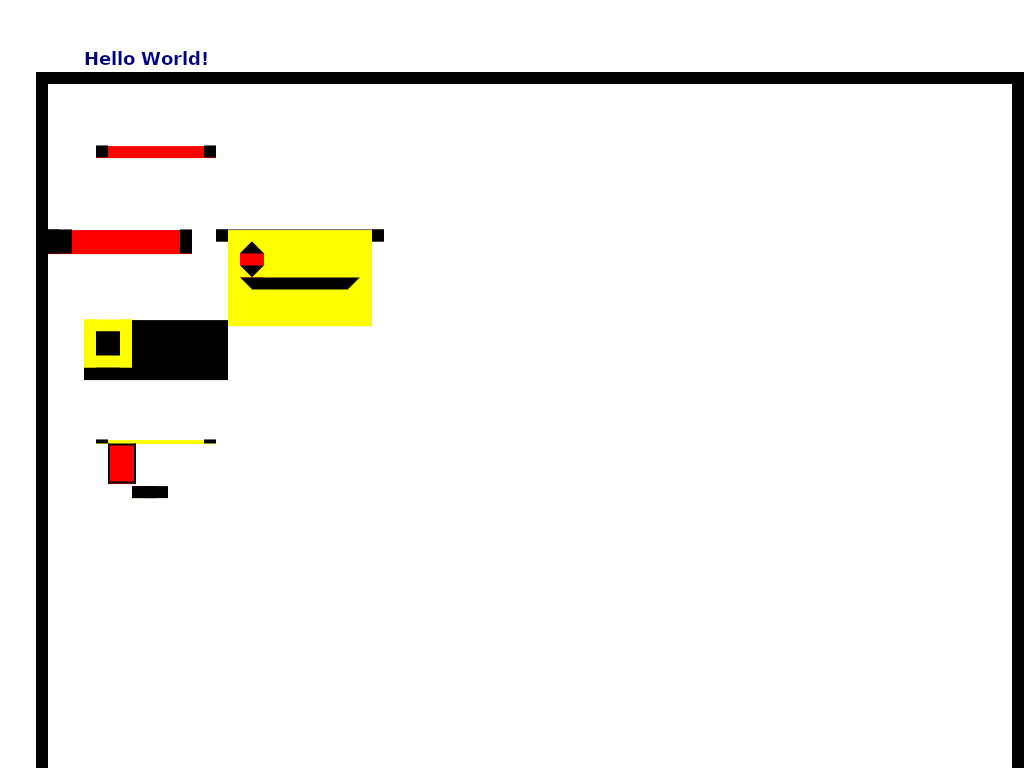
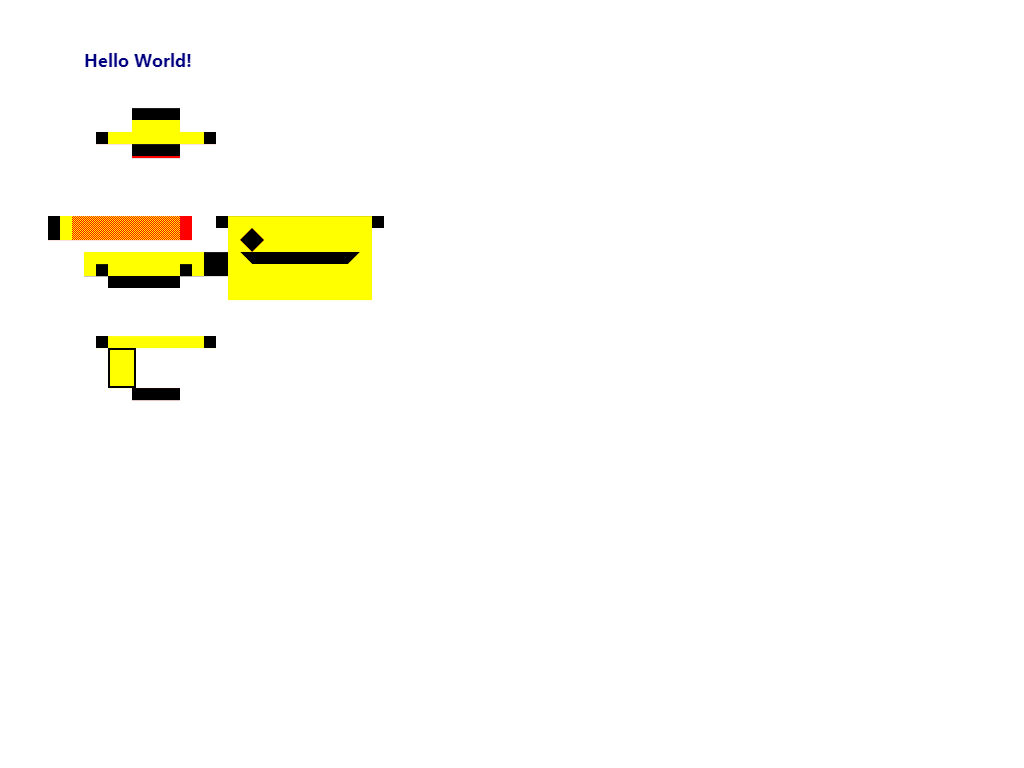
* cleanup/bugfixes

Changed region(s): [[0.0312, 0.0625, 1.0, 1.0], [0.0938, 0.5625, 0.2188, 0.6562]]

diff --git a/src/Broiler.App/DevConsole/DevConsolePanel.xaml b/src/Broiler.App/DevConsole/DevConsolePanel.xaml
@@ -1,7 +1,7 @@
 <UserControl x:Class="Broiler.App.DevConsole.DevConsolePanel"
              xmlns="http://schemas.microsoft.com/winfx/2006/xaml/presentation"
              xmlns:x="http://schemas.microsoft.com/winfx/2006/xaml"
-             Background="#1E1E1E">
+             >
     <Grid>
         <Grid.RowDefinitions>
             <!-- Tab bar -->
@@ -11,7 +11,7 @@
         </Grid.RowDefinitions>
 
         <!-- Tab header bar -->
-        <Border Grid.Row="0" Background="#2D2D2D" BorderBrush="#3E3E3E" BorderThickness="0,0,0,1">
+        <Border Grid.Row="0" BorderBrush="#3E3E3E" BorderThickness="0,0,0,1">
             <StackPanel Orientation="Horizontal">
                 <RadioButton x:Name="LogTab" Content="Log Viewer" 
                              IsChecked="True" Checked="Tab_Checked" Tag="Log"/>
@@ -20,12 +20,12 @@
                 <RadioButton x:Name="JsTab" Content="JS Console" 
                              Checked="Tab_Checked" Tag="Js"/>
                 <!-- Error indicator badge -->
-                <Border x:Name="ErrorBadge" Background="#E74C3C" CornerRadius="8" Padding="6,2"
+                <Border x:Name="ErrorBadge" CornerRadius="8" Padding="6,2"
                         Margin="8,4" VerticalAlignment="Center" Visibility="Collapsed">
                     <TextBlock x:Name="ErrorCount" Text="0 errors" Foreground="White"
                                FontSize="11" FontFamily="Segoe UI"/>
                 </Border>
-                <Button Content="✕" Width="24" Height="24" Margin="8,2" Background="Transparent"
+                <Button Content="✕" Width="24" Height="24" Margin="8,2" 
                         Foreground="#999" BorderThickness="0" Click="CloseButton_Click"
                         ToolTip="Close (F12)" HorizontalAlignment="Right"
                         VerticalContentAlignment="Center" FontSize="14"/>
@@ -40,7 +40,7 @@
             </Grid.RowDefinitions>
 
             <!-- Filters -->
-            <Border Grid.Row="0" Background="#252526" Padding="4">
+            <Border Grid.Row="0" Padding="4">
                 <StackPanel Orientation="Horizontal">
                     <TextBlock Text="Level:" Foreground="#CCC" VerticalAlignment="Center" Margin="4,0"/>
                     <ComboBox x:Name="LogLevelFilter" Width="90" Margin="2,0"
@@ -59,17 +59,17 @@
                         <ComboBoxItem Content="JavaScript"/>
                     </ComboBox>
                     <TextBox x:Name="LogSearchBox" Width="180" Margin="8,0,2,0"
-                             Background="#3C3C3C" Foreground="#CCC" BorderBrush="#555"
+                             Foreground="#CCC" BorderBrush="#555"
                              VerticalContentAlignment="Center" Padding="4,2"
                              TextChanged="LogFilter_Changed"/>
                     <TextBlock Text="🔍" Foreground="#999" VerticalAlignment="Center" Margin="2,0"/>
                     <Button Content="Clear" Margin="8,0,2,0" Padding="8,2" Click="ClearLog_Click"
-                            Background="#3C3C3C" Foreground="#CCC" BorderBrush="#555"/>
+                            Foreground="#CCC" BorderBrush="#555"/>
                 </StackPanel>
             </Border>
 
             <!-- Log entries -->
-            <ListBox x:Name="LogList" Grid.Row="1" Background="#1E1E1E" Foreground="#CCC"
+            <ListBox x:Name="LogList" Grid.Row="1" Foreground="#CCC"
                      BorderThickness="0" FontFamily="Consolas" FontSize="12"
                      ScrollViewer.HorizontalScrollBarVisibility="Auto"
                      ScrollViewer.VerticalScrollBarVisibility="Auto"/>
@@ -84,11 +84,11 @@
             </Grid.ColumnDefinitions>
 
             <!-- Box tree -->
-            <TreeView x:Name="DomTree" Grid.Column="0" Background="#1E1E1E" Foreground="#CCC"
+            <TreeView x:Name="DomTree" Grid.Column="0" Foreground="#CCC"
                       BorderThickness="0" FontFamily="Consolas" FontSize="12"
                       SelectedItemChanged="DomTree_SelectedItemChanged"/>
 
-            <GridSplitter Grid.Column="1" Width="4" Background="#3E3E3E"
+            <GridSplitter Grid.Column="1" Width="4" 
                           HorizontalAlignment="Center" VerticalAlignment="Stretch"/>
 
             <!-- Right pane: Computed Styles + Box Model -->
@@ -108,13 +108,13 @@
                         </Grid.RowDefinitions>
                         <TextBlock Grid.Row="0" Text="Computed Styles" Foreground="#4EC9B0" FontWeight="Bold"
                                    Margin="8,4" FontSize="12"/>
-                        <ListBox x:Name="StylesList" Grid.Row="1" Background="#1E1E1E" Foreground="#CCC"
+                        <ListBox x:Name="StylesList" Grid.Row="1" Foreground="#CCC"
                                  BorderThickness="0" FontFamily="Consolas" FontSize="11"
                                  ScrollViewer.HorizontalScrollBarVisibility="Auto"/>
                     </Grid>
                 </Border>
 
-                <GridSplitter Grid.Row="1" Height="4" Background="#3E3E3E"
+                <GridSplitter Grid.Row="1" Height="4" 
                               HorizontalAlignment="Stretch" VerticalAlignment="Center"/>
 
                 <!-- Box Model Visualiser -->
@@ -126,7 +126,7 @@
                         </Grid.RowDefinitions>
                         <TextBlock Grid.Row="0" Text="Box Model" Foreground="#4EC9B0" FontWeight="Bold"
                                    Margin="8,4" FontSize="12"/>
-                        <Canvas x:Name="BoxModelCanvas" Grid.Row="1" Background="#1E1E1E"/>
+                        <Canvas x:Name="BoxModelCanvas" Grid.Row="1" />
                     </Grid>
                 </Border>
             </Grid>
@@ -140,17 +140,17 @@
             </Grid.RowDefinitions>
 
             <!-- Output -->
-            <ListBox x:Name="JsOutput" Grid.Row="0" Background="#1E1E1E" Foreground="#CCC"
+            <ListBox x:Name="JsOutput" Grid.Row="0" Foreground="#CCC"
                      BorderThickness="0" FontFamily="Consolas" FontSize="12"
                      ScrollViewer.HorizontalScrollBarVisibility="Auto"
                      ScrollViewer.VerticalScrollBarVisibility="Auto"/>
 
             <!-- Input -->
-            <Border Grid.Row="1" Background="#252526" BorderBrush="#3E3E3E" BorderThickness="0,1,0,0">
+            <Border Grid.Row="1" BorderBrush="#3E3E3E" BorderThickness="0,1,0,0">
                 <DockPanel Margin="4">
                     <TextBlock Text="&gt;" Foreground="#569CD6" VerticalAlignment="Center"
                                Margin="4,0" FontFamily="Consolas" FontSize="13" FontWeight="Bold"/>
-                    <TextBox x:Name="JsInput" Background="#3C3C3C" Foreground="#CCC"
+                    <TextBox x:Name="JsInput" Foreground="#CCC"
                              BorderBrush="#555" FontFamily="Consolas" FontSize="12"
                              VerticalContentAlignment="Center" Padding="4,2"
                              KeyDown="JsInput_KeyDown"/>
@@ -164,7 +164,7 @@
             <Setter Property="Template">
                 <Setter.Value>
                     <ControlTemplate TargetType="RadioButton">
-                        <Border x:Name="TabBorder" Background="Transparent" Padding="12,6" Cursor="Hand"
+                        <Border x:Name="TabBorder" Padding="12,6" Cursor="Hand"
                                 BorderBrush="Transparent" BorderThickness="0,0,0,2">
                             <ContentPresenter HorizontalAlignment="Center" VerticalAlignment="Center"/>
                         </Border>
@@ -175,9 +175,6 @@
                             </Trigger>
                             <Trigger Property="IsChecked" Value="False">
                                 <Setter Property="Foreground" Value="#999"/>
-                            </Trigger>
-                            <Trigger Property="IsMouseOver" Value="True">
-                                <Setter TargetName="TabBorder" Property="Background" Value="#3E3E3E"/>
                             </Trigger>
                         </ControlTemplate.Triggers>
                     </ControlTemplate>